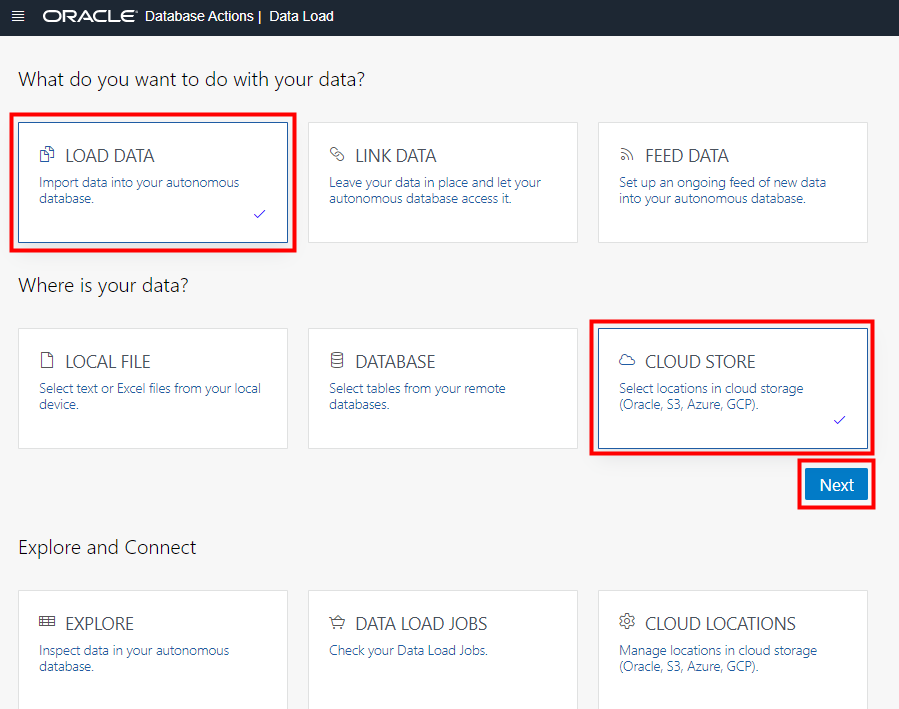
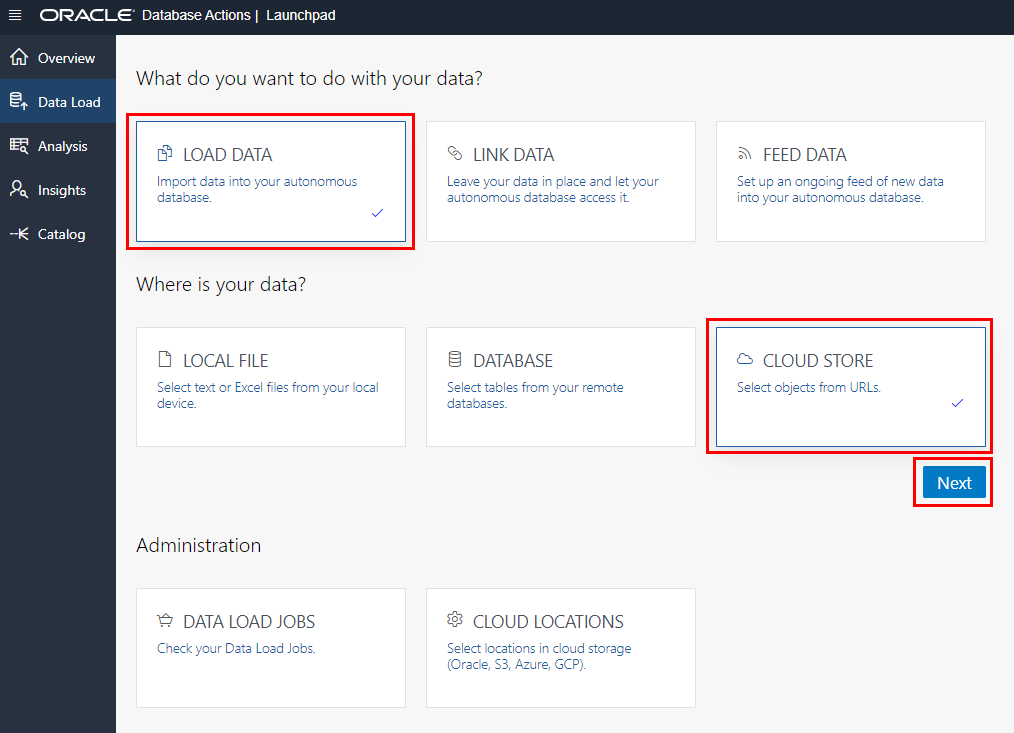
Workshop ID#141 updates to common\building-blocks\tasks\adb (#136)
* Workshop ID#141 small change to building block file in common folder

Workshop ID#141

In the common\building-blocks\tasks\iam\compartment-create-body.md file, one minor change to wording; change "step" to "first task".

* Workshop ID#141 updates to common\building-blocks\tasks\adb

For Workshop ID#141 "Load and Analyze" here are 3 updated screenshots and a minor .md file change to the common\building-blocks\tasks\adb\goto-data-load-utility.md file, most concerning the UI change on the Database Actions Launchpad, from the label "Data Tools" to "Data Studio".

diff --git a/building-blocks/tasks/adb/goto-data-load-utility.md b/building-blocks/tasks/adb/goto-data-load-utility.md
@@ -15,6 +15,6 @@ Navigate to the Data Load utility of Database Actions.
 
     ![Enter the admin password.](./images/admin-username-and-password.png " ")
 
-3. On the Database Actions Launchpad page, under **Data Tools**, click **DATA LOAD**.
+3. On the Database Actions Launchpad page, under **Data Studio**, click **DATA LOAD**.
 
     ![Click DATA LOAD](images/dataload.png)
